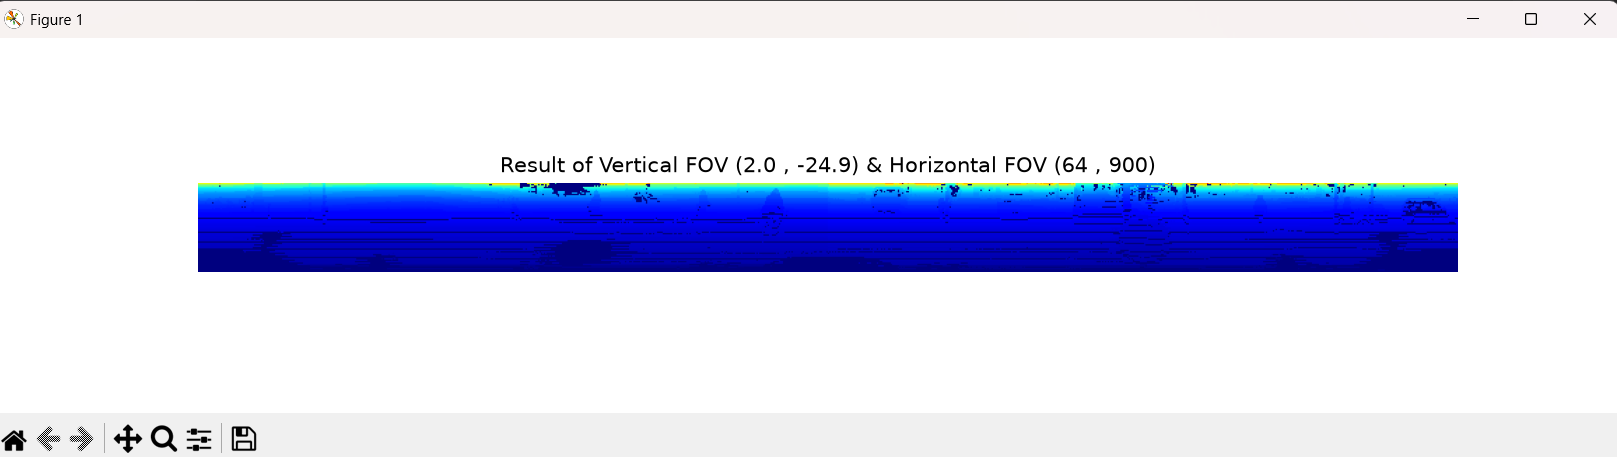
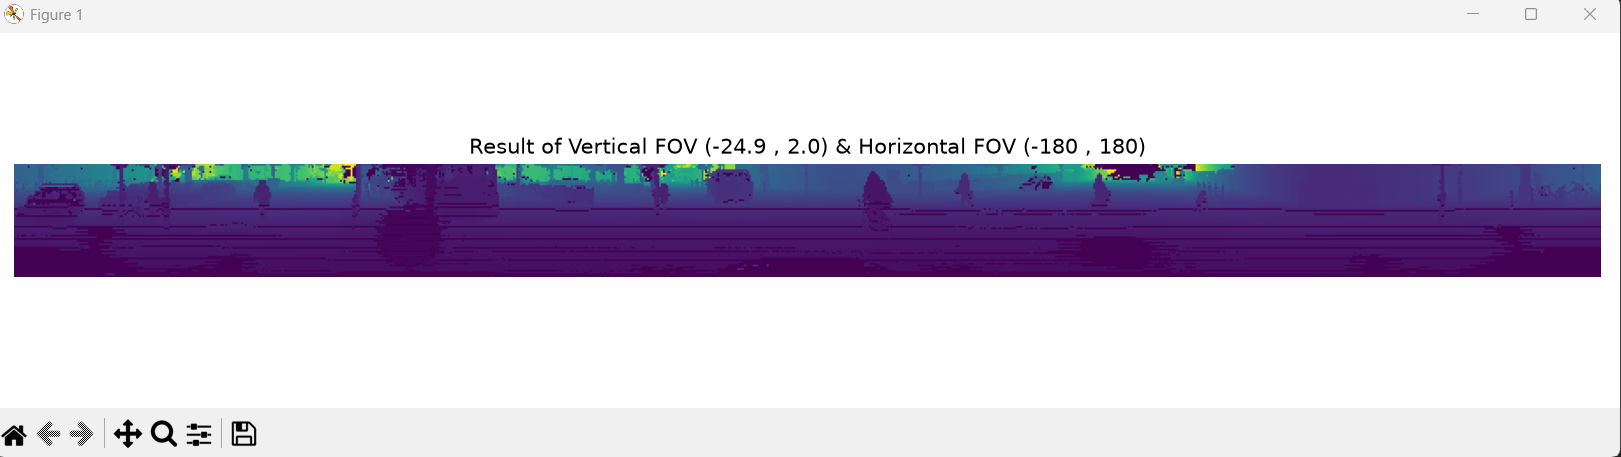
docs: 질문 2번 해결

diff --git a/Task 2 - LiDAR range image generation/problem_2.py b/Task 2 - LiDAR range image generation/problem_2.py
@@ -53,6 +53,8 @@ def pointcloud_to_range_img(current_vertex, fov_up, fov_down, proj_H, proj_W, ma
     # order in decreasing depth
     order = np.argsort(depth)[::-1]
     depth = depth[order]
+    u = u[order]
+    v = v[order]
 
     proj_range = np.full((proj_H, proj_W), -1, dtype=np.float32)  # [H,W] range (-1 is no data)
     proj_range[v, u] = depth
@@ -63,31 +65,25 @@ def pointcloud_to_range_img(current_vertex, fov_up, fov_down, proj_H, proj_W, ma
 
 
 if __name__ == "__main__":
-    # Spinning LiDAR FoV 설정 : Velodyne-HDL64e 모델 스펙 확인
     fov_up=2.0 
     fov_down=-24.9 
     proj_H=64 
     proj_W=900
 
-    # bin format -> numpy array
     lidar_points = load_from_bin('./0000000000.bin')
-    
-    # generate range image
     
     range_img = pointcloud_to_range_img(lidar_points, fov_up, fov_down, proj_H, proj_W, max_range=150)
 
-    # display result image
-    
-    plt.subplots(1,1, figsize = (13,3) )
+    # 정규화
+    valid = range_img > 0
+    range_img_vis = range_img.copy()
+    range_img_vis[valid] = (range_img[valid] - range_img[valid].min()) / \
+                           (range_img[valid].max() - range_img[valid].min())
+    range_img_vis[~valid] = 0
 
-    plt.title("Result of Vertical FOV ({} , {}) & Horizontal FOV ({} , {})".format(fov_up, fov_down, proj_H, proj_W))
-
-    plt.imshow(range_img)
-
+    plt.subplots(1, 1, figsize=(13, 3))
+    plt.title("Result of Vertical FOV (-24.9 , 2.0) & Horizontal FOV (-180 , 180)")
+    plt.imshow(range_img_vis, cmap='viridis')
     plt.axis('off')
+    plt.tight_layout()
     plt.show()
-
-
-    print(range_img.shape) 
-
-    

diff --git a/Task 2 - LiDAR range image generation/README.md b/Task 2 - LiDAR range image generation/README.md
@@ -108,35 +108,29 @@ v = (1.0 - (pitch + abs(fov_down)) / fov) * proj_H
   3. 상하 반전 처리: 1.0 - (비율) 연산을 적용하여, 각도가 커질수록 픽셀 인덱스는 작아지게(하단에서 상단으로 매핑) 설계하였습니다.
 
   ### 투영 결과 (Range Image)
-![LiDAR Projection Result](First.png)
+![Result of Vertical FOV](First.png)
 
 ### 만약 range에 따른 차이를 더 잘 보여주기 위해서는 어떻게 해야할까? ( Hint : normalization )
+기존 코드는 `np.clip(range_img, 0, 50) / 50.0` 방식으로 고정된 범위(0~50m)에 맞춰 스케일링하였습니다.  
+이 방식은 실제 데이터의 분포를 반영하지 못해 색상 대비가 약해지는 문제가 있습니다.
 
-### 시각화 개선: 거리 데이터 정규화 (Normalization)
+**문제점**
+- `proj_range`가 `-1`(no data)로 초기화되어 있어, `-1`까지 포함하면 정규화 범위가 왜곡됨
+- 고정 범위(0~50m) 클리핑 시 실제 데이터의 min/max를 반영하지 못해 색상 대비 손실
 
-* **문제점:** 원본 Range Image는 실제 거리 값(m)을 그대로 사용하므로, 데이터 분포에 따라 이미지가 지나치게 어둡거나 명암 대비가 낮아 객체 식별이 어렵습니다.
+**해결 방법: 유효 픽셀만 골라 min-max 정규화**
 
-* **해결 방법 (Min-Max Normalization):**
-    * 전체 유효 거리 데이터($R$)의 최솟값($R_{min}$)과 최댓값($R_{max}$)을 찾아 `0~1` 사이의 범위로 정규화하였습니다.
-    * 수식: $R_{norm} = \frac{R - R_{min}}{R_{max} - R_{min}}$
-    * **코드 구현**
 ```python
-# 1. 유효한 데이터만 필터링 (데이터가 없는 픽셀 값인 -1 제외)
-mask = range_img > 0 
-  -투영 과정에서 데이터가 없는 픽셀에는 기본값으로 -1이 할당되어 있습니다. 이 -1을 포함해서 정규화하면 전체적인 색상 범위가 왜곡되므로, 실제 거리 데이터인 0보다 큰 값들만 골라내는 필터링(Masking) 작업입니다.
-
-# 2. Min-Max 정규화 수행을 위해 데이터의 최솟값/최댓값 추출
-min_val = np.min(range_img[mask])
-max_val = np.max(range_img[mask])
-  -전체 데이터 중 가장 가까운 곳과 가장 먼 곳의 거리를 찾아, 정규화의 기준점(Scale)을 설정합니다.
-
-# 3. README에 기술한 정규화 수식 구현
-range_img[mask] = (range_img[mask] - min_val) / (max_val - min_val + 1e-6)
-  -만약 모든 거리 데이터가 동일한 값일 경우, max - min이 0이 되어 계산 오류가 발생합니다. 이를 방지하는 안전장치입니다.
-
-# 4. 데이터가 없는 곳(mask가 False인 곳)은 배경값 0으로 초기화
-range_img[~mask] = 0
-  -마스킹된 결과의 반대(~mask), 즉 데이터가 없는 빈 공간은 배경 처리를 위해 0으로 고정합니다.
+valid = range_img > 0                      # -1(no data) 픽셀 제외
+range_img_vis = range_img.copy()
+range_img_vis[valid] = (range_img[valid] - range_img[valid].min()) / \
+                       (range_img[valid].max() - range_img[valid].min())
+range_img_vis[~valid] = 0                  # no data → 0 (검정)
 ```
+
+1. `valid` 마스크로 데이터가 있는 픽셀만 선택
+2. 해당 픽셀들의 실제 min/max로 0~1 범위에 정규화
+3. no data 픽셀은 0으로 처리하여 배경과 구분
+
   ### 투영 결과 (Range Image)
-![LiDAR Projection Result](Second.png)
+![Result of Vertical FOV](Second.png)